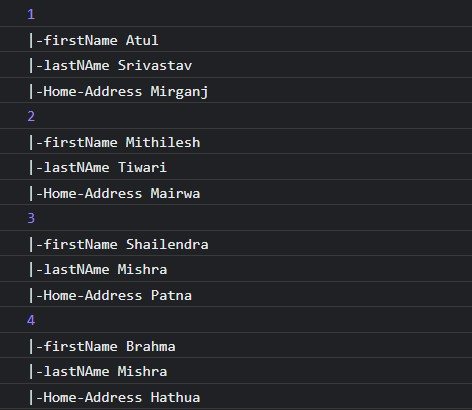
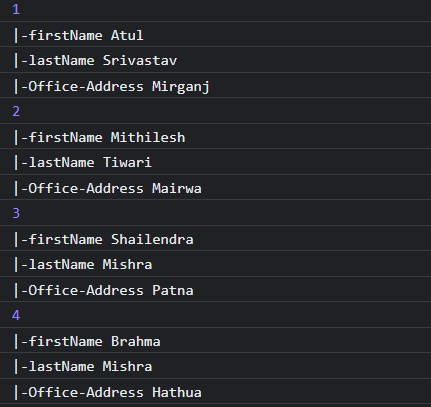
Add files via upload

Changed region(s): [[0.0, 0.0, 0.4826, 1.0]]

diff --git a/People.html b/People.html
@@ -1,0 +1,30 @@
+<!DOCTYPE html>
+<html lang = "en">
+ <style>
+     body{
+         background: radial-gradient(rgba(255,0,1,0),rgba(255,0,1,1));
+        font-family: Impact, Haettenschweiler, 'Arial Narrow Bold', sans-serif ;
+        margin:25px auto;
+        padding:12px;
+        text-align:center;
+        width:100%;  
+        }
+        h1{
+            font:caption;
+            font-style: italic;
+                font-size: 70px;
+        }
+ </style>
+    <head>
+        <meta charset="UTF-8">
+        <meta http-equiv="X-UA-Compatible" content="IE=edge">
+    <meta name="viewport" content="width=device-width, initial-scale=1.0">
+    <title>People in My Society</title>
+    <script src="./person.js"></script>
+    </head>
+<body>
+<h1>These are the people residing in My Colony </h1>
+  <img src = "Screenshot 2021-11-26 170621.jpg" alt = "Console Output">
+   <img src ="https://is1-3.housingcdn.com/01c16c28/483bfbaa183c28637d178d2e99d0a4a0/v0/medium/residential_plot-for-sale-rukanpura-Patna-others.jpg" alt = "My colony">
+</body>
+</html>

diff --git a/people.js b/people.js
@@ -1,0 +1,30 @@
+let Person = [
+    {
+        'firstName': 'Atul',
+        'lastName': 'Srivastav',
+        'Office-Address': 'Mirganj'
+    },
+    {
+        'firstName': 'Mithilesh',
+        'lastName': 'Tiwari',
+        'Office-Address': 'Mairwa'
+    },
+    {
+        'firstName': 'Shailendra',
+        'lastName': 'Mishra',
+        'Office-Address': 'Patna'
+    },
+    {
+        'firstName': 'Brahma',
+        'lastName': 'Mishra',
+        'Office-Address': 'Hathua'
+    }
+]
+for(let i=0;i<Person.length;i++){
+    let val=Person[i];
+    console.log(i+1);
+for (let key in val) {
+    console.log("|-"+key + " " + val[key]);
+}
+
+}
